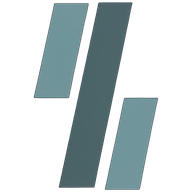
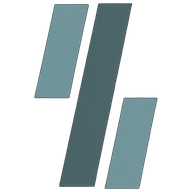
gdfgsgd

diff --git a/src/components/HeroWaves.tsx b/src/components/HeroWaves.tsx
@@ -2,58 +2,36 @@ export function HeroWaves() {
   return (
     <div className="pointer-events-none absolute inset-0 overflow-hidden" aria-hidden>
       <div
-        className="mist absolute -left-[10%] top-[-18%] h-[55%] w-[70%] rounded-full opacity-80"
+        className="absolute inset-0"
         style={{
-          background:
-            "radial-gradient(circle at 40% 40%, rgba(127, 180, 191, 0.55), transparent 68%)",
-        }}
-      />
-      <div
-        className="mist absolute right-[-12%] top-[8%] h-[48%] w-[58%] rounded-full opacity-70"
-        style={{
-          background:
-            "radial-gradient(circle at 50% 50%, rgba(207, 224, 228, 0.7), transparent 70%)",
-          animationDelay: "2s",
-        }}
-      />
-      <div
-        className="absolute inset-x-0 bottom-0 h-[58%]"
-        style={{
-          background:
-            "linear-gradient(180deg, transparent 0%, rgba(23, 105, 120, 0.18) 28%, rgba(11, 58, 69, 0.88) 100%)",
+          background: `
+            radial-gradient(ellipse 80% 55% at 18% 12%, rgba(127, 180, 191, 0.42), transparent 70%),
+            radial-gradient(ellipse 70% 50% at 88% 22%, rgba(207, 224, 228, 0.55), transparent 72%),
+            linear-gradient(180deg, #dce8ec 0%, #e7eef1 42%, #c5d8de 68%, #0b3a45 100%)
+          `,
         }}
       />
 
       <svg
-        className="absolute inset-x-0 bottom-0 h-[46%] w-[140%] -translate-x-[12%]"
-        viewBox="0 0 1440 420"
+        className="absolute inset-x-0 bottom-0 h-[42%] w-full"
+        viewBox="0 0 1440 320"
         preserveAspectRatio="none"
       >
-        <g className="wave-path-slow origin-center">
-          <path
-            d="M0 220 C180 160 280 300 480 240 C680 180 780 120 980 190 C1180 260 1280 210 1440 170 L1440 420 L0 420 Z"
-            fill="rgba(23, 105, 120, 0.35)"
-          />
-        </g>
-        <g className="wave-path origin-center">
-          <path
-            d="M0 250 C220 190 340 320 540 260 C740 200 860 150 1040 220 C1220 290 1320 240 1440 210 L1440 420 L0 420 Z"
-            fill="rgba(11, 58, 69, 0.72)"
-          />
-        </g>
         <path
-          d="M0 300 C240 250 360 340 560 300 C760 260 900 220 1100 270 C1300 320 1360 290 1440 270 L1440 420 L0 420 Z"
-          fill="rgba(11, 58, 69, 0.95)"
+          className="wave-path-slow origin-center"
+          d="M0 180 C240 120 360 230 600 170 C840 110 980 70 1200 130 C1320 160 1380 150 1440 140 L1440 320 L0 320 Z"
+          fill="rgba(23, 105, 120, 0.28)"
+        />
+        <path
+          className="wave-path origin-center"
+          d="M0 210 C220 160 380 250 620 200 C860 150 1020 120 1240 180 C1340 205 1400 190 1440 180 L1440 320 L0 320 Z"
+          fill="rgba(11, 58, 69, 0.72)"
+        />
+        <path
+          d="M0 245 C260 210 420 275 680 240 C940 205 1100 195 1300 235 C1380 250 1420 245 1440 240 L1440 320 L0 320 Z"
+          fill="#0b3a45"
         />
       </svg>
-
-      <div
-        className="absolute inset-x-0 bottom-0 h-32"
-        style={{
-          background:
-            "linear-gradient(180deg, transparent, rgba(11, 58, 69, 0.35))",
-        }}
-      />
     </div>
   );
 }

diff --git a/src/app/globals.css b/src/app/globals.css
@@ -117,11 +117,15 @@ a {
 }
 
 .wave-path {
-  animation: wave-drift 12s ease-in-out infinite;
+  transform-box: fill-box;
+  transform-origin: center;
+  animation: wave-drift 14s ease-in-out infinite;
 }
 
 .wave-path-slow {
-  animation: wave-drift 18s ease-in-out infinite reverse;
+  transform-box: fill-box;
+  transform-origin: center;
+  animation: wave-drift 20s ease-in-out infinite reverse;
 }
 
 @keyframes wave-drift {
@@ -130,22 +134,8 @@ a {
     transform: translateX(0);
   }
   50% {
-    transform: translateX(-3%);
+    transform: translateX(-1.5%);
   }
-}
-
-@keyframes mist-shift {
-  0%,
-  100% {
-    transform: translate3d(0, 0, 0) scale(1);
-  }
-  50% {
-    transform: translate3d(2%, -1.5%, 0) scale(1.04);
-  }
-}
-
-.mist {
-  animation: mist-shift 16s ease-in-out infinite;
 }
 
 @media (prefers-reduced-motion: reduce) {
@@ -154,8 +144,7 @@ a {
   }
 
   .wave-path,
-  .wave-path-slow,
-  .mist {
+  .wave-path-slow {
     animation: none;
   }
 }

diff --git a/src/components/Hero.tsx b/src/components/Hero.tsx
@@ -3,7 +3,6 @@
 import { ArrowRight, ArrowUpRight } from "lucide-react";
 import { motion, useReducedMotion } from "framer-motion";
 import { HeroWaves } from "./HeroWaves";
-import { Logo } from "./Logo";
 
 export function Hero() {
   const reduceMotion = useReducedMotion();
@@ -36,10 +35,6 @@ export function Hero() {
             },
           }}
         >
-          <motion.div variants={item} className="mb-6">
-            <Logo height={72} priority />
-          </motion.div>
-
           <motion.p
             variants={item}
             className="display mb-4 text-[clamp(2.8rem,8vw,5.6rem)] font-semibold leading-[0.92] text-ink"

diff --git a/src/components/Logo.tsx b/src/components/Logo.tsx
@@ -1,6 +1,6 @@
 import Image from "next/image";
 
-const LOGO_ASPECT = 511 / 763;
+const LOGO_ASPECT = 520 / 771;
 
 type LogoProps = {
   height?: number;
@@ -13,7 +13,7 @@ export function Logo({ height = 36, className = "", priority = false }: LogoProp
 
   return (
     <Image
-      src="/logo.png"
+      src="/logo.png?v=2"
       alt="Yakın Boğaz"
       width={width}
       height={height}
